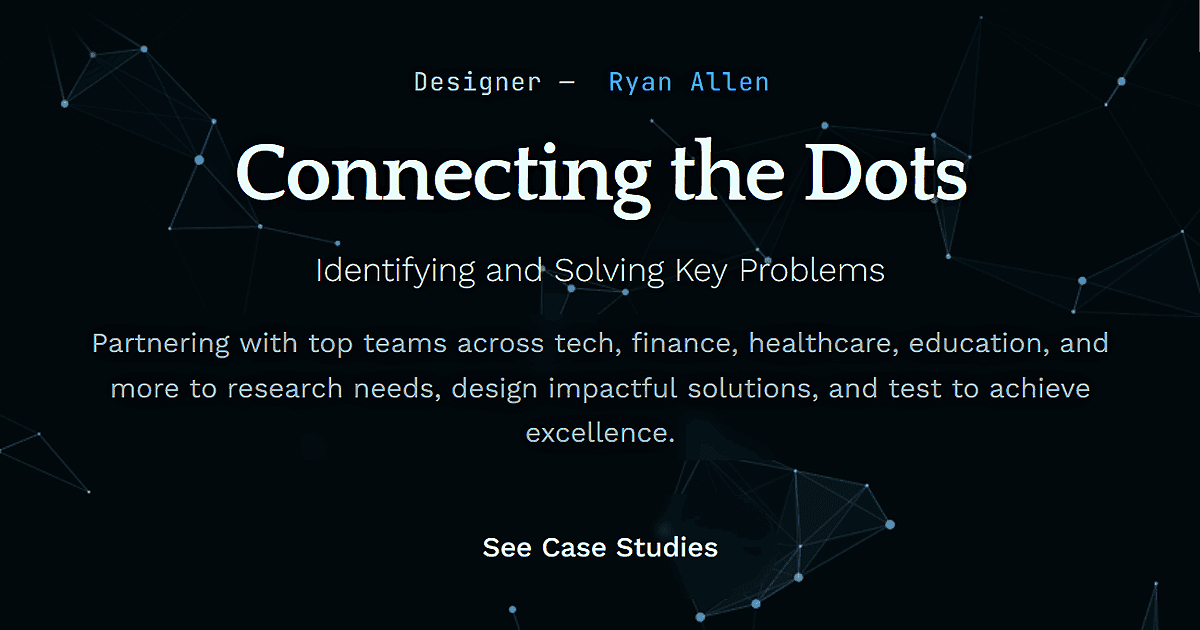
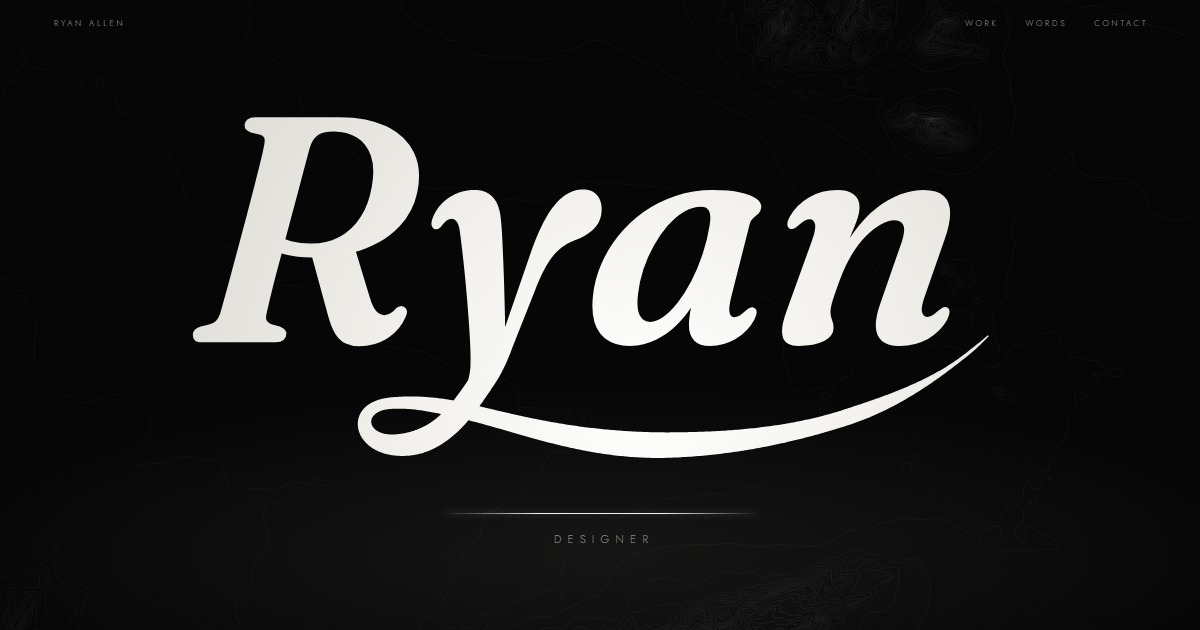
update v7

diff --git a/index.html b/index.html
@@ -43,10 +43,15 @@
 
   /* Top line: the name and three links, nothing else. */
   .nav { position: fixed; inset: 0 0 auto; z-index: 10; display: flex; justify-content: space-between; align-items: center;
-    padding: 22px var(--gutter); font-size: 11px; color: var(--quiet); mix-blend-mode: difference;
+    padding: 22px var(--gutter); font-size: 11px; color: var(--quiet);
     opacity: 0; transition: opacity 900ms ease; }
   .nav.on { opacity: 1; }
   .nav nav { display: flex; gap: clamp(16px, 3vw, 36px); }
+  /* Each letter sits in its own pool of the ground colour, so the words keep
+     at least 6:1 contrast whatever passes under them. */
+  .nav a { filter: drop-shadow(1px 0 0 var(--ground)) drop-shadow(-1px 0 0 var(--ground)) drop-shadow(0 1px 0 var(--ground))
+    drop-shadow(0 -1px 0 var(--ground)) drop-shadow(1px 0 0 var(--ground)) drop-shadow(-1px 0 0 var(--ground))
+    drop-shadow(0 1px 0 var(--ground)) drop-shadow(0 -1px 0 var(--ground)) drop-shadow(0 0 4px var(--ground)); }
   .nav a:hover { color: var(--ink); }
 
   /* Opening: the drawn name, the light bar, the title. */
@@ -620,7 +625,7 @@ const ROLES = [
     ] },
   { name: 'Charter', logo: ['0 0 1000.786 209.086', '<g> <polygon points="933.78,61.306 933.78,163.002 1000.786,112.168 "/> <path d="M166.332,193.412c0,8.211-6.393,15.674-15.68,15.674h-15.674V94.303 c1.825-30.536,12.928-54.874,59.314-56.534c20.063,0.252,34.621,8.229,43.223,18.29c9.219,11.989,13.173,26.885,13.173,45.62 c0,19.359-4.612,35.034-13.837,47.022c-9.219,11.68-21.048,17.517-35.492,17.517c-21.665,0-32.188-9.019-35.05-10.712 C166.31,156.553,166.332,193.412,166.332,193.412 M218.877,103.063c0-11.983-2.197-37.339-26.736-37.339 c-23.302,0-25.809,24.739-25.809,37.339c0,31.903,18.129,35.955,26.73,35.955C215.34,139.019,218.877,115.391,218.877,103.063"/> <path d="M18.341,152.741c10.387,8.87,25.986,13.294,46.782,13.294c20.184,0,35.783-4.27,46.787-12.836 c11.005-9.174,16.516-22.015,16.516-38.524c0-7.64-1.499-14.69-5.047-21.105c-3.25-5.871-8.768-11.411-15.439-14.752 c-4.234-2.112-6.811-3.033-12.018-4.636c-5.619-1.722-33.604-9.356-36.43-10.1c-15.588-3.8-25.488-8.99-25.557-18.215 c0.807-17.837,17.43-19.262,26.609-19.262c9.465,0,16.967,1.991,22.467,5.963c9.877,7.686,8.778,17.448,8.778,17.448h31.125 c-0.612-15.291-6.117-27.686-16.509-37.168C96.316,4.287,81.936,0,63.292,0c-19.88,0-35.011,4.132-45.409,12.384 C7.485,20.951,2.289,32.722,2.289,47.704c0.046,19.245,9.168,30.593,17.432,35.777c5.018,3.004,16.424,7.611,31.188,10.547 l12.4,2.701c21.506,5.242,33.85,11.881,33.466,22.53c-0.234,6.415-2.443,11.319-7.342,14.679 c-4.476,3.061-12.087,5.035-21.552,5.035c-10.713,0-19.113-2.129-25.225-6.415c-5.814-3.668-9.34-10.089-10.553-19.262H0 C0.916,130.721,7.027,143.877,18.341,152.741"/> <path d="M313.945,64.826c19.715-0.269,22.776,16.515,23.389,24.773h-46.782 C290.552,89.599,290.157,65.266,313.945,64.826 M315.325,138.676c-7.948-0.401-23.079-1.957-24.464-28.436l79.48,0.017 c0.012-0.813,0-9.528,0.023-9.54c-0.55-19.955-5.34-34.822-14.685-45.981c-10.095-11.01-24.31-16.509-42.656-16.509 c-17.419,0-31.033,5.66-40.813,16.967c-9.482,11.005-14.227,26.301-14.227,45.866c0,20.492,4.888,36.235,14.685,47.24 c9.786,11.318,23.394,16.973,40.813,16.973c14.381,0,26.301-3.508,35.777-10.547c9.477-6.724,15.943-16.543,19.309-29.391 l-27.617,0.006C336.888,136.867,326.501,139.236,315.325,138.676"/> <path d="M847.622,163.15h-31.801V84.786c0-9.036-3.715-21.208-21.666-21.208c-17.613,0-21.201,13.837-21.201,21.208 v78.365h-32.275v-71.91c0-20.893,6.197-33.66,16.365-41.946c10.072-8.212,22.965-10.907,36.184-11.525 c7.068,0,13.992,0.773,20.746,2.301c6.764,1.551,12.91,4.612,18.443,9.225c4.617-3.989,10.061-6.838,16.365-8.532 c6.295-1.683,12.814-2.958,19.59-2.993c39.359-0.206,55.154,17.814,56.465,23.594c0,0.086,0.01,101.787,0.01,101.787h-18.215 c-4.605,0-15.668-3.13-15.668-15.668V84.786c0.08-8.881-3.033-21.208-21.672-21.208c-18.449,0-21.67,13.837-21.67,21.208V163.15z" /> <path d="M457.994,125.382h30.152c0,0-8.184,39.892-53.734,39.892c-45.541,0-56.752-36.544-56.752-60.562 c0-24.012,4.264-65.037,54.982-66.474c46.863-0.704,54.588,39.898,54.588,39.898h-32.109c0,0-3.107-13.723-22.221-13.293 c-19.107,0.435-24.104,18.381-24.104,35.434c0,17.059,4.246,38.399,25.466,38.399C454.435,139.293,456.215,128.381,457.994,125.382 "/> <path d="M625.282,40.951h32.104v77.97c0,0-1.156,21.088,21.105,21.099c20.99,0.012,21.527-18.867,21.545-20.2 V56.082c0,0,1.082-15.13,15-15.13H731.7c0,0-0.018,71.727,0,72.413c-0.23,3.948,4.199,51.915-53.209,51.721 c-56.877,0-52.848-48.527-53.209-51.383V40.951z"/> <path d="M527.055,73.581h18.855l-0.018-32.144h-18.799V20.791c0-5.66-3.152-15.594-15.137-15.594h-16.509v134.858 c0,14.061,5.455,22.473,17.265,22.473c0.133,0,13.85,0.011,14.348,0.011L527.055,73.581z"/> <path d="M579.512,162.762v-62.84c0-9.167,2.129-15.897,6.422-20.178c4.275-4.28,10.844-6.426,19.719-6.426h10.541 V40.756c0,0-16.605-0.412-28.664,3.21c-7.742,2.329-14.598,5.505-20.4,10.083c-6.135,4.898-10.941,11.399-14.455,19.497 c-3.514,8.103-5.27,18.117-5.27,30.043v59.171H579.512z"/> </g>'], logoWide: true, sub: 'Spectrum', line: 'A zero-to-one app, with hardware and backend services, for older adults and the people who look after them. My manager said I was "amazing through the discovery process", so that\'s going on the website. I worked with outside vendors, VPs and teams across the company.',
     facts: [['Role', 'Lead Product Designer'], ['Areas', 'Mobile · Hardware · Backend Services · Discovery · Vendors · Leadership']],
-    heroArt: '<div class="art"><div class="glow" style="--g:rgba(10,143,224,.38)"></div><img src="media/charter/spectrum-3d.svg" alt="" loading="lazy" style="width:32%;left:5%;top:18%;--d:-2s"></div>', hero: [{ img: M + 'charter/vitals-dark.webp', d: 'phone mid' }, { img: M + 'charter/heart-dark.webp', d: 'phone trail' }],
+    heroArt: '<div class="art"><div class="glow" style="--g:rgba(10,143,224,.38)"></div><img src="media/charter/spectrum-3d.svg" alt="" loading="lazy" style="width:32%;left:5%;top:18%;--d:-2s"></div>', hero: [{ img: M + 'charter/vitals-dark.png', d: 'phone mid' }, { img: M + 'charter/heart-dark.png', d: 'phone trail' }],
     tiles: [
       { name: 'Caregiver App', img: M + 'charter/vitals-light.webp', d: 'phone' },
       { name: 'Heart Rate Alerts', img: M + 'charter/heart-light.webp', d: 'phone' },
